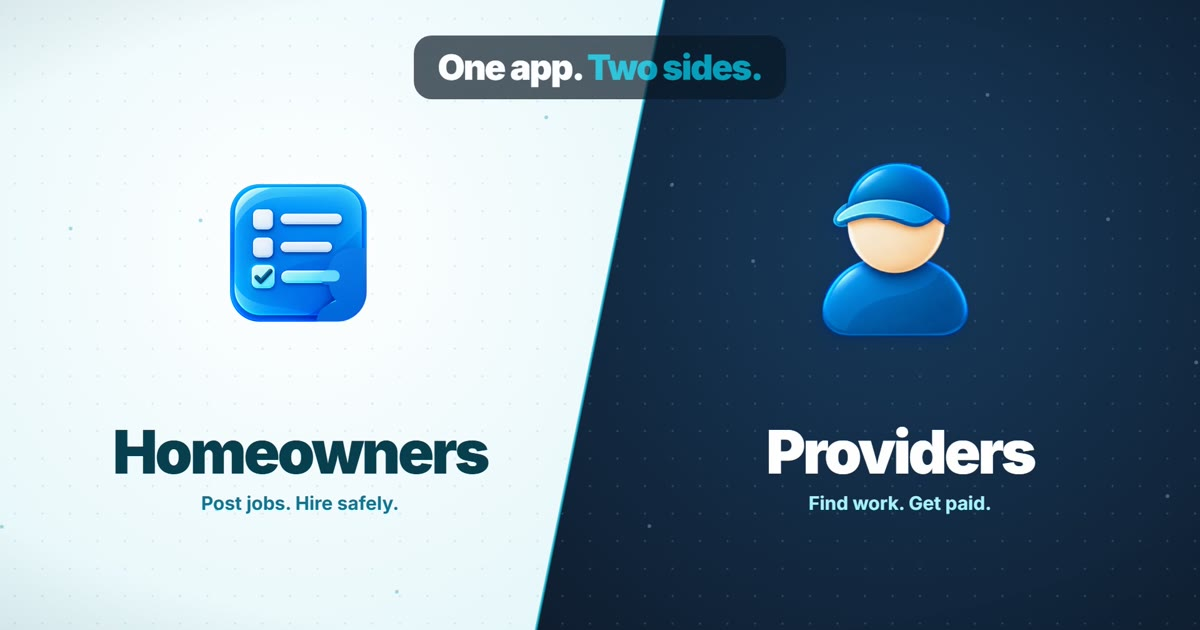
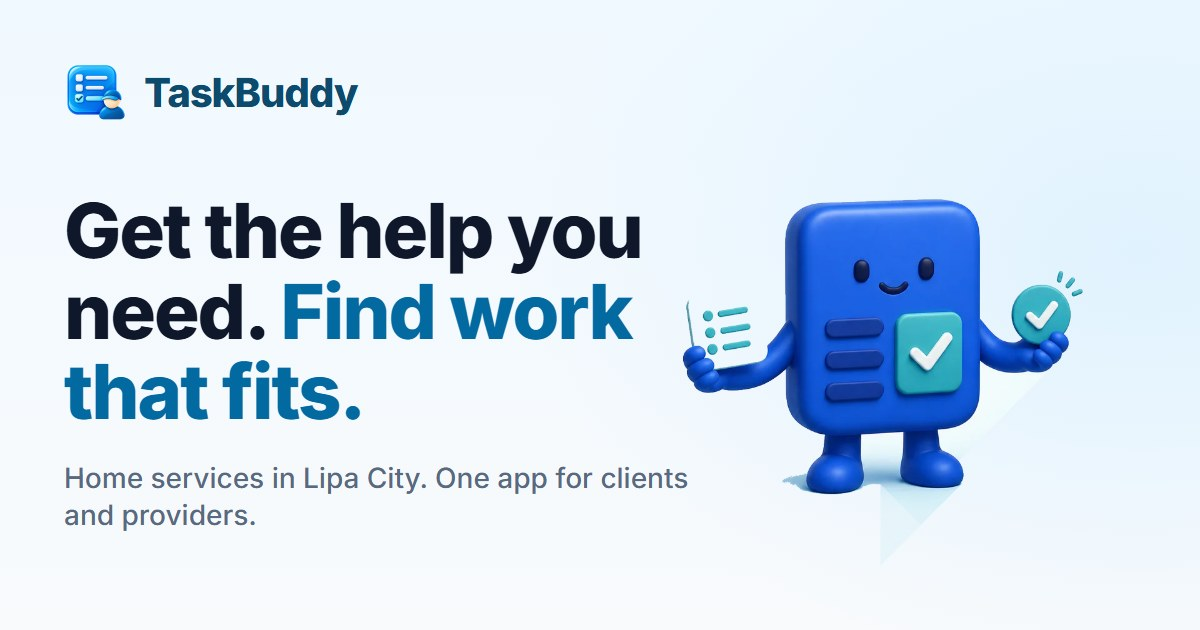
feat(promo): new social preview image in the final Sky look
Remotion still OgImage (1200x630): logo, headline, mascot, no phone screens.
Replaces the old image that said homeowners.

diff --git a/promo/src/OgImage.tsx b/promo/src/OgImage.tsx
@@ -1,0 +1,30 @@
+import React from 'react';
+import { AbsoluteFill, Img, staticFile } from 'remotion';
+import { INTER } from './theme';
+
+export const OgImage: React.FC = () => (
+  <AbsoluteFill
+    style={{
+      fontFamily: INTER,
+      background:
+        'radial-gradient(900px 600px at 95% 40%, #e0f2fe 0%, rgba(224,242,254,0) 70%), linear-gradient(180deg, #f0f9ff 0%, #f8fafc 100%)',
+    }}
+  >
+    <div style={{ position: 'absolute', left: 64, top: 60, display: 'flex', alignItems: 'center', gap: 16 }}>
+      <Img src={staticFile('taskbuddy-logo.png')} style={{ width: 64, height: 64, objectFit: 'contain' }} />
+      <div style={{ fontSize: 40, fontWeight: 800, color: '#0c4a6e', letterSpacing: -1 }}>TaskBuddy</div>
+    </div>
+    <div style={{ position: 'absolute', left: 64, top: 190, width: 640 }}>
+      <div style={{ fontSize: 76, fontWeight: 800, lineHeight: 1.06, letterSpacing: -2, color: '#0f172a' }}>
+        Get the help you need. <span style={{ color: '#0369a1' }}>Find work that fits.</span>
+      </div>
+      <div style={{ marginTop: 28, fontSize: 28, fontWeight: 500, lineHeight: 1.35, color: '#586a7f' }}>
+        Home services in Lipa City. One app for clients and providers.
+      </div>
+    </div>
+    <Img
+      src={staticFile('taskbuddy-mascot.webp')}
+      style={{ position: 'absolute', right: 60, bottom: 40, height: 520, objectFit: 'contain' }}
+    />
+  </AbsoluteFill>
+);

diff --git a/promo/src/Root.tsx b/promo/src/Root.tsx
@@ -9,6 +9,7 @@ import { TOTAL60 } from './v2/timeline';
 import { HeroLoop, HERO_LOOP_FRAMES } from './v2/HeroLoop';
 import { StoryClip, storyClipMetadata } from './v2/StoryClip';
 import { PhoneStill, PHONE_STILL } from './v2/PhoneStill';
+import { OgImage } from './OgImage';
 import { GuideLesson, calculateGuideMetadata, GUIDE_FPS, TITLE_FRAMES, END_FRAMES } from './guide/GuideLesson';
 
 export const Root: React.FC = () => (
@@ -21,5 +22,6 @@ export const Root: React.FC = () => (
     <Composition id="LogoTest" component={LogoTest} durationInFrames={1} fps={FPS} width={2048} height={512} />
     <Composition id="GuideLesson" component={GuideLesson} durationInFrames={TITLE_FRAMES + END_FRAMES + 300} fps={GUIDE_FPS} width={1920} height={1080} defaultProps={{ lessonId: 'sample-post-a-job' }} calculateMetadata={calculateGuideMetadata} />
     <Composition id="GuideLesson720" component={GuideLesson} durationInFrames={TITLE_FRAMES + END_FRAMES + 300} fps={GUIDE_FPS} width={1280} height={720} defaultProps={{ lessonId: 'sample-post-a-job' }} calculateMetadata={calculateGuideMetadata} />
+    <Composition id="OgImage" component={OgImage} durationInFrames={1} fps={30} width={1200} height={630} />
   </>
 );
